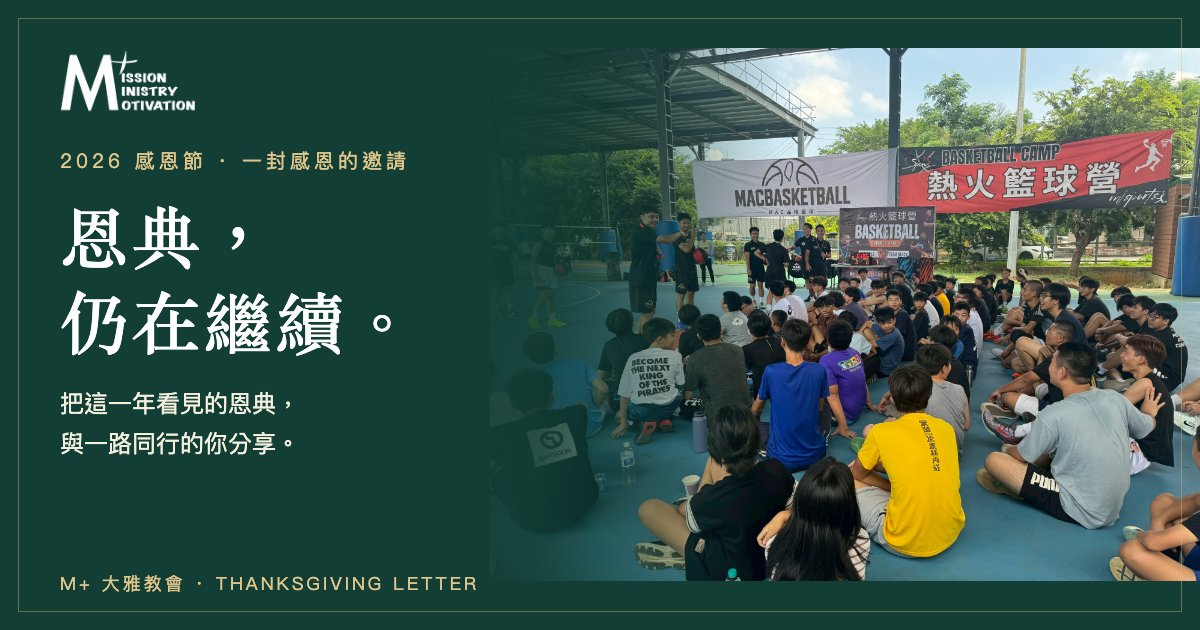
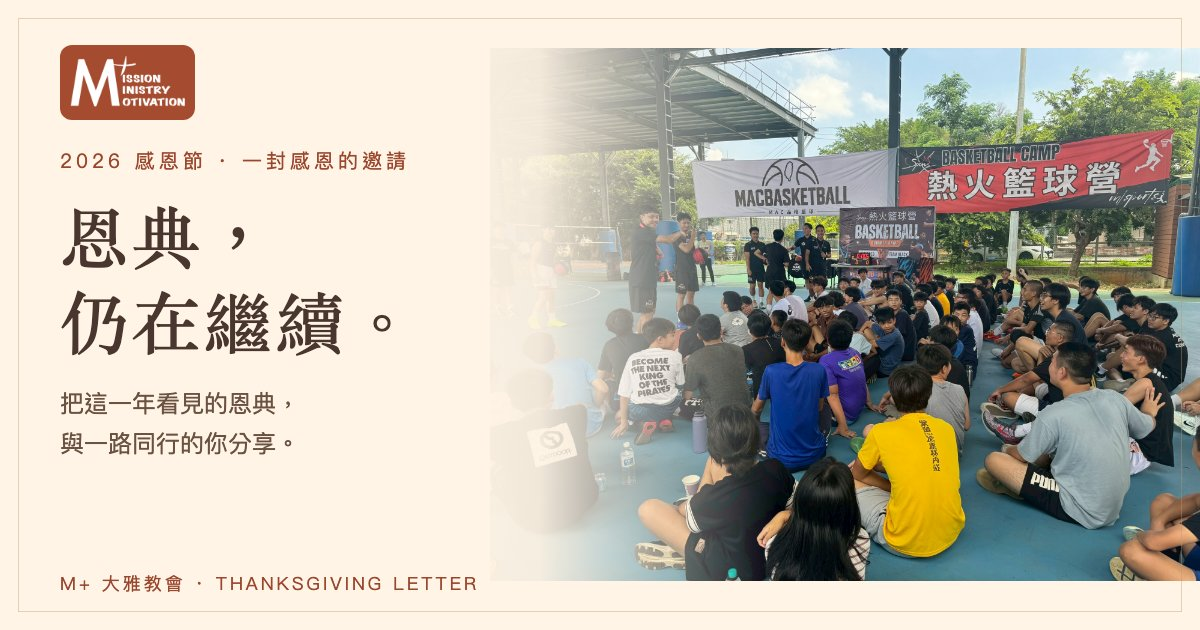
style: use warm Thanksgiving colors and reliable church photos

diff --git a/thanksgiving-2026.html b/thanksgiving-2026.html
@@ -3,27 +3,27 @@
 <head>
 <meta charset="utf-8">
 <meta name="viewport" content="width=device-width, initial-scale=1, viewport-fit=cover">
-<meta name="theme-color" content="#123e35">
+<meta name="theme-color" content="#9a472e">
 <meta name="description" content="M+大雅教會 2026 感恩代禱信，與一路同行的你分享門徒、社區與下一代的恩典故事。">
 <title>恩典，仍在繼續。｜M+大雅教會 2026 感恩代禱信</title>
 <style>
-:root{--forest:#123e35;--forest2:#225548;--ink:#233a33;--muted:#687b73;--line:#e2e5d9;--paper:#fbfaf5;--pale:#eff3ec;--warm:#dba95c;--white:#fff;--radius:20px; font-family:-apple-system,BlinkMacSystemFont,"PingFang TC","Noto Sans TC","Microsoft JhengHei",sans-serif;color:var(--ink);background:var(--paper);-webkit-font-smoothing:antialiased}
+:root{--forest:#9a472e;--forest2:#ae5638;--ink:#49362e;--muted:#78675d;--line:#ead8c6;--paper:#fffaf3;--pale:#faf0e3;--warm:#dba95c;--white:#fff;--radius:20px; font-family:-apple-system,BlinkMacSystemFont,"PingFang TC","Noto Sans TC","Microsoft JhengHei",sans-serif;color:var(--ink);background:var(--paper);-webkit-font-smoothing:antialiased}
 *{box-sizing:border-box}html{scroll-behavior:smooth}body{margin:0}a{color:inherit}button,input,select,textarea{font:inherit}button{cursor:pointer}button:disabled{opacity:.6;cursor:wait}.wrap{width:min(1120px,calc(100% - 40px));margin-inline:auto}.serif{font-family:"Noto Serif TC","Songti TC",serif}
-.topbar{background:var(--forest);color:#fff;min-height:66px;display:flex;align-items:center;position:relative;z-index:1}.topbar .wrap{display:flex;align-items:center;justify-content:space-between;gap:16px}.identity{display:flex;align-items:center;gap:12px;text-decoration:none;min-width:0}.identity img{display:block;width:142px;max-height:37px;object-fit:contain;object-position:left center}.identity .fallback{font-size:14px;font-weight:800;letter-spacing:.09em}.identity .sub{font-size:11px;letter-spacing:.15em;opacity:.8;border-left:1px solid #63877e;padding-left:13px;white-space:nowrap}.top-link{text-decoration:none;border:1px solid #ffffff75;border-radius:999px;padding:10px 18px;font-size:13px;font-weight:700;white-space:nowrap}
-.hero{background:linear-gradient(135deg,#103a32 0%,#205348 70%,#15372f 100%);color:#fff;padding:74px 0 108px;overflow:hidden;position:relative}.hero:after{content:"";position:absolute;width:570px;height:570px;border:1px solid #ffffff11;border-radius:50%;right:-160px;top:-300px;box-shadow:0 0 0 88px #ffffff04,0 0 0 180px #ffffff03;pointer-events:none}.hero-inner{max-width:870px;position:relative;z-index:1}.eyebrow{letter-spacing:.23em;text-transform:uppercase;font-size:12px;font-weight:750;color:#e9bf7c}.hero h1{font-size:clamp(41px,7vw,75px);letter-spacing:.07em;line-height:1.2;margin:23px 0 17px;font-weight:700}.hero h1 em{font-style:normal;color:#f7d7a1}.hero p{line-height:1.9;max-width:665px;font-size:17px;color:#e4ece6}.verse{border-left:3px solid var(--warm);padding-left:18px;color:#f6e6c8!important;margin:31px 0}.hero-actions{display:flex;gap:12px;flex-wrap:wrap;margin-top:30px}.btn{display:inline-flex;align-items:center;justify-content:center;gap:9px;padding:13px 20px;border-radius:999px;font-weight:750;font-size:14px;text-decoration:none;border:1px solid transparent;min-height:46px}.btn.gold{background:#eabd73;color:#173b32}.btn.ghost{color:#fff;border-color:#70988b}.btn.green{background:var(--forest);color:#fff}
-.photo-strip{position:relative;margin-top:-65px;z-index:2;display:grid;grid-template-columns:1.55fr 1fr;gap:12px}.photo-main,.photo-side{position:relative;overflow:hidden;border-radius:19px;background:#d9e5db}.photo-main{min-height:350px}.photo-side-grid{display:grid;grid-template-rows:1fr 1fr;gap:12px}.photo-side{min-height:169px}.photo-strip img{width:100%;height:100%;object-fit:cover;position:absolute;inset:0;display:block}.photo-strip .photo-caption{position:absolute;bottom:0;left:0;right:0;color:#fff;background:linear-gradient(transparent,#0e291edb);padding:36px 19px 16px;font-size:13px;font-weight:650}.photo-main .photo-caption{font-size:16px}
-.stats{display:grid;grid-template-columns:repeat(5,minmax(0,1fr));gap:10px;margin:28px 0 84px}.stat{background:#edf1e9;border:1px solid #e1e7dc;padding:19px 10px;text-align:center;border-radius:14px}.stat b{font-family:"Noto Serif TC","Songti TC",serif;display:block;color:var(--forest);font-size:clamp(23px,3vw,35px);font-weight:700}.stat small{display:block;font-size:12px;color:#61746b;margin-top:5px}
-.section-kicker{text-transform:uppercase;color:#ad7b38;letter-spacing:.19em;font-size:11px;font-weight:800}.section-head h2{font-size:clamp(29px,4.1vw,43px);margin:10px 0 11px;line-height:1.35}.section-head>p{max-width:690px;color:#62736a;line-height:1.9;font-size:15px;margin:0}.stories{display:grid;grid-template-columns:repeat(3,1fr);gap:18px;margin:31px 0 89px}.story{background:white;border:1px solid #e5e7df;border-radius:18px;padding:28px 25px;box-shadow:0 13px 35px #253b2710}.story .num{display:inline-block;color:#bd9559;font-size:13px;font-weight:800;letter-spacing:.15em}.story h3{font-size:21px;margin:13px 0}.story p{font-size:15px;line-height:1.95;color:#586c61;margin:0}
-.pray{background:#e9eee6;padding:64px 0}.pray .wrap{display:grid;grid-template-columns:1fr 1.2fr;gap:60px;align-items:start}.pray h2{font-size:40px;margin:14px 0}.pray .lede{font-size:16px;line-height:1.95;color:#4c6759}.prayers{padding:0;list-style:none;margin:0;display:grid;gap:16px}.prayers li{display:flex;gap:14px;align-items:flex-start;border-bottom:1px solid #d3ddcf;padding:0 0 16px;line-height:1.75;font-size:14px}.prayers li b{color:#b5874d;font-size:15px;flex:none}
-.giving{padding:88px 0 90px}.giving-heading{text-align:center;margin-bottom:33px}.giving-heading h2{font-size:40px;margin:12px 0}.giving-heading p{color:#617369;line-height:1.85}.giving-layout{display:grid;grid-template-columns:minmax(0,.9fr) minmax(0,1.1fr);gap:24px;align-items:start}.give-options{background:var(--forest);color:#fff;border-radius:24px;padding:31px;position:relative;overflow:hidden}.give-options .tag{font-size:12px;letter-spacing:.12em;color:#e4bd7b;font-weight:750}.give-options h3{font-size:23px;margin:14px 0 7px}.give-options .bank{color:#e5f0e7;font-size:14px}.acct{display:flex;align-items:center;gap:12px;flex-wrap:wrap;margin:20px 0}.acct strong{font-size:clamp(21px,3.2vw,27px);letter-spacing:.02em;font-variant-numeric:tabular-nums}.copy-btn{border:1px solid #8dab9f;background:#ffffff12;color:#fff;padding:9px 14px;border-radius:10px;font-size:12px;font-weight:750}.option-link{display:flex;align-items:center;justify-content:space-between;gap:12px;color:#173c32;background:#eabd73;text-decoration:none;margin-top:18px;padding:17px 20px;border-radius:13px;font-size:15px;font-weight:800}.option-site{display:flex;gap:8px;align-items:center;margin:18px 0 0;text-decoration:none;color:#d5e6db;font-size:13px}.note{font-size:12px;line-height:1.75;color:#c5d6cb;margin:26px 0 0}
-.form-panel{background:#fff;padding:31px;border:1px solid #e1e4da;box-shadow:0 20px 50px #173b3014;border-radius:24px}.form-head h3{margin:5px 0 9px;font-size:25px}.form-head p{color:#66786e;font-size:13px;line-height:1.8;margin-bottom:21px}.demo-alert{background:#fff6e6;border:1px solid #f4ddac;border-radius:12px;padding:12px 14px;margin-bottom:20px;font-size:12px;line-height:1.7;color:#785b2f}.field-grid{display:grid;grid-template-columns:repeat(2,minmax(0,1fr));gap:16px}.field{display:flex;flex-direction:column;gap:8px;margin-bottom:16px}.field.full{grid-column:1/-1}.field label{font-size:13px;font-weight:750}.req{color:#b6693c;margin-left:4px}.field input,.field select,.field textarea{width:100%;background:#fbfcf8;border:1px solid #cfdad0;border-radius:11px;padding:13px 14px;font-size:15px;outline:none;min-height:47px;transition:border-color .2s,box-shadow .2s}.field input:focus,.field select:focus,.field textarea:focus{border-color:#558474;box-shadow:0 0 0 3px #478b7726}.field textarea{resize:vertical;min-height:82px}.hint{font-size:11px;color:#64766c;line-height:1.6}.consent{min-height:44px;padding-block:10px;font-size:12px;color:#57695f;line-height:1.8;display:flex;align-items:flex-start;gap:9px}.consent input{flex:none;width:22px;height:22px;margin-top:0;accent-color:var(--forest)}.send-btn{width:100%;border:0;background:var(--forest);color:#fff;font-size:15px;font-weight:800;border-radius:12px;padding:15px 20px;margin-top:17px;min-height:52px}.status{margin-top:14px;border-radius:12px;padding:12px 14px;display:none;font-size:13px;line-height:1.7}.status.show{display:block}.status.warn{background:#fff7e6;color:#735424;border:1px solid #e7cf93}.status.ok{background:#eaf6e8;color:#235a37;border:1px solid #bad5c2}.status.error{background:#fbeceb;color:#9a3539;border:1px solid #e6bfc3}
-.end{background:#123e35;color:white;padding:58px 0}.end .wrap{display:flex;justify-content:space-between;gap:25px;align-items:end}.end h2{font-size:31px;margin:9px 0}.end p{color:#d6e7dd;line-height:1.8;margin:0}.foot{padding:22px 0;background:#0c3028;color:#cee1d7;font-size:12px}.foot .wrap{display:flex;align-items:center;justify-content:space-between;gap:12px;flex-wrap:wrap}.foot a{text-decoration:none}
+.topbar{background:var(--forest);color:#fff;min-height:66px;display:flex;align-items:center;position:relative;z-index:1}.topbar .wrap{display:flex;align-items:center;justify-content:space-between;gap:16px}.identity{display:flex;align-items:center;gap:12px;text-decoration:none;min-width:0}.identity img{display:block;width:142px;max-height:37px;object-fit:contain;object-position:left center}.identity .fallback{font-size:14px;font-weight:800;letter-spacing:.09em}.identity .sub{font-size:11px;letter-spacing:.15em;opacity:.8;border-left:1px solid #b7795f;padding-left:13px;white-space:nowrap}.top-link{text-decoration:none;border:1px solid #ffffff75;border-radius:999px;padding:10px 18px;font-size:13px;font-weight:700;white-space:nowrap}
+.hero{background:linear-gradient(135deg,#fff4e5 0%,#f9e4cc 70%,#f8eee1 100%);color:#49362e;padding:74px 0 108px;overflow:hidden;position:relative}.hero:after{content:"";position:absolute;width:570px;height:570px;border:1px solid #ffffff11;border-radius:50%;right:-160px;top:-300px;box-shadow:0 0 0 88px #ffffff04,0 0 0 180px #ffffff03;pointer-events:none}.hero-inner{max-width:870px;position:relative;z-index:1}.eyebrow{letter-spacing:.23em;text-transform:uppercase;font-size:12px;font-weight:750;color:#925030}.hero h1{font-size:clamp(41px,7vw,75px);letter-spacing:.07em;line-height:1.2;margin:23px 0 17px;font-weight:700}.hero h1 em{font-style:normal;color:#9a472e}.hero p{line-height:1.9;max-width:665px;font-size:17px;color:#59483c}.verse{border-left:3px solid var(--warm);padding-left:18px;color:#7a5138!important;margin:31px 0}.hero-actions{display:flex;gap:12px;flex-wrap:wrap;margin-top:30px}.btn{display:inline-flex;align-items:center;justify-content:center;gap:9px;padding:13px 20px;border-radius:999px;font-weight:750;font-size:14px;text-decoration:none;border:1px solid transparent;min-height:46px}.btn.gold{background:#eabd73;color:#573c2e}.btn.ghost{color:#fff;border-color:#c48d70}.btn.green{background:var(--forest);color:#fff}
+.photo-strip{position:relative;margin-top:-65px;z-index:2;display:grid;grid-template-columns:1.55fr 1fr;gap:12px}.photo-main,.photo-side{position:relative;overflow:hidden;border-radius:19px;background:#f2e4d6}.photo-main{min-height:350px}.photo-side-grid{display:grid;grid-template-rows:1fr 1fr;gap:12px}.photo-side{min-height:169px}.photo-strip img{width:100%;height:100%;object-fit:cover;position:absolute;inset:0;display:block}.photo-strip .photo-caption{position:absolute;bottom:0;left:0;right:0;color:#fff;background:linear-gradient(transparent,#38251cdb);padding:36px 19px 16px;font-size:13px;font-weight:650}.photo-main .photo-caption{font-size:16px}
+.stats{display:grid;grid-template-columns:repeat(5,minmax(0,1fr));gap:10px;margin:28px 0 84px}.stat{background:#fbf0e2;border:1px solid #ead8c6;padding:19px 10px;text-align:center;border-radius:14px}.stat b{font-family:"Noto Serif TC","Songti TC",serif;display:block;color:var(--forest);font-size:clamp(23px,3vw,35px);font-weight:700}.stat small{display:block;font-size:12px;color:#78675d;margin-top:5px}
+.section-kicker{text-transform:uppercase;color:#ad7b38;letter-spacing:.19em;font-size:11px;font-weight:800}.section-head h2{font-size:clamp(29px,4.1vw,43px);margin:10px 0 11px;line-height:1.35}.section-head>p{max-width:690px;color:#78675d;line-height:1.9;font-size:15px;margin:0}.stories{display:grid;grid-template-columns:repeat(3,1fr);gap:18px;margin:31px 0 89px}.story{background:white;border:1px solid #ead8c6;border-radius:18px;padding:28px 25px;box-shadow:0 13px 35px #60351b0c}.story .num{display:inline-block;color:#bd9559;font-size:13px;font-weight:800;letter-spacing:.15em}.story h3{font-size:21px;margin:13px 0}.story p{font-size:15px;line-height:1.95;color:#6f5a4b;margin:0}
+.pray{background:#f6e9da;padding:64px 0}.pray .wrap{display:grid;grid-template-columns:1fr 1.2fr;gap:60px;align-items:start}.pray h2{font-size:40px;margin:14px 0}.pray .lede{font-size:16px;line-height:1.95;color:#6b5140}.prayers{padding:0;list-style:none;margin:0;display:grid;gap:16px}.prayers li{display:flex;gap:14px;align-items:flex-start;border-bottom:1px solid #e1cbb4;padding:0 0 16px;line-height:1.75;font-size:14px}.prayers li b{color:#b5874d;font-size:15px;flex:none}
+.giving{padding:88px 0 90px}.giving-heading{text-align:center;margin-bottom:33px}.giving-heading h2{font-size:40px;margin:12px 0}.giving-heading p{color:#78675d;line-height:1.85}.giving-layout{display:grid;grid-template-columns:minmax(0,.9fr) minmax(0,1.1fr);gap:24px;align-items:start}.give-options{background:#f7e8d5;color:#49362e;border-radius:24px;padding:31px;position:relative;overflow:hidden}.give-options .tag{font-size:12px;letter-spacing:.12em;color:#8b4b2d;font-weight:750}.give-options h3{font-size:23px;margin:14px 0 7px}.give-options .bank{color:#694d3b;font-size:14px}.acct{display:flex;align-items:center;gap:12px;flex-wrap:wrap;margin:20px 0}.acct strong{font-size:clamp(21px,3.2vw,27px);letter-spacing:.02em;font-variant-numeric:tabular-nums}.copy-btn{border:1px solid #b58b6f;background:#fff9ef;color:#69432f;padding:9px 14px;border-radius:10px;font-size:12px;font-weight:750}.option-link{display:flex;align-items:center;justify-content:space-between;gap:12px;color:#573c2e;background:#eabd73;text-decoration:none;margin-top:18px;padding:17px 20px;border-radius:13px;font-size:15px;font-weight:800}.option-site{display:flex;gap:8px;align-items:center;margin:18px 0 0;text-decoration:none;color:#6b5140;font-size:13px}.note{font-size:12px;line-height:1.75;color:#765d4b;margin:26px 0 0}
+.form-panel{background:#fff;padding:31px;border:1px solid #ead8c6;box-shadow:0 20px 50px #8c4e2810;border-radius:24px}.form-head h3{margin:5px 0 9px;font-size:25px}.form-head p{color:#78675d;font-size:13px;line-height:1.8;margin-bottom:21px}.demo-alert{background:#fff6e6;border:1px solid #f4ddac;border-radius:12px;padding:12px 14px;margin-bottom:20px;font-size:12px;line-height:1.7;color:#785b2f}.field-grid{display:grid;grid-template-columns:repeat(2,minmax(0,1fr));gap:16px}.field{display:flex;flex-direction:column;gap:8px;margin-bottom:16px}.field.full{grid-column:1/-1}.field label{font-size:13px;font-weight:750}.req{color:#b6693c;margin-left:4px}.field input,.field select,.field textarea{width:100%;background:#fffcf8;border:1px solid #d9c4b0;border-radius:11px;padding:13px 14px;font-size:15px;outline:none;min-height:47px;transition:border-color .2s,box-shadow .2s}.field input:focus,.field select:focus,.field textarea:focus{border-color:#ae5638;box-shadow:0 0 0 3px #ae563826}.field textarea{resize:vertical;min-height:82px}.hint{font-size:11px;color:#78675d;line-height:1.6}.consent{min-height:44px;padding-block:10px;font-size:12px;color:#78675d;line-height:1.8;display:flex;align-items:flex-start;gap:9px}.consent input{flex:none;width:22px;height:22px;margin-top:0;accent-color:var(--forest)}.send-btn{width:100%;border:0;background:var(--forest);color:#fff;font-size:15px;font-weight:800;border-radius:12px;padding:15px 20px;margin-top:17px;min-height:52px}.status{margin-top:14px;border-radius:12px;padding:12px 14px;display:none;font-size:13px;line-height:1.7}.status.show{display:block}.status.warn{background:#fff7e6;color:#735424;border:1px solid #e7cf93}.status.ok{background:#fff1dc;color:#70451e;border:1px solid #dec39f}.status.error{background:#fbeceb;color:#9a3539;border:1px solid #e6bfc3}
+.end{background:#9a472e;color:white;padding:58px 0}.end .wrap{display:flex;justify-content:space-between;gap:25px;align-items:end}.end h2{font-size:31px;margin:9px 0}.end p{color:#f7e7d4;line-height:1.8;margin:0}.foot{padding:22px 0;background:#50372c;color:#f5e6d4;font-size:12px}.foot .wrap{display:flex;align-items:center;justify-content:space-between;gap:12px;flex-wrap:wrap}.foot a{text-decoration:none}
 @media(max-width:800px){.stats{grid-template-columns:repeat(3,minmax(0,1fr));margin-bottom:67px}.stories{grid-template-columns:1fr;gap:13px;margin-bottom:60px}.pray .wrap,.giving-layout{grid-template-columns:1fr}.pray .wrap{gap:23px}.photo-main{min-height:300px}.give-options,.form-panel{padding:24px}.hero{padding:61px 0 100px}.hero p{font-size:15px}.pray h2,.giving-heading h2{font-size:34px}}
 @media(max-width:560px){.wrap{width:min(100% - 28px,1120px)}.identity img{width:124px}.identity .sub{display:none}.top-link{padding:9px 12px;font-size:12px}.photo-strip{grid-template-columns:1fr;gap:10px}.photo-main{min-height:225px}.photo-side-grid{grid-template-columns:1fr 1fr;grid-template-rows:auto}.photo-side{min-height:135px}.photo-side .photo-caption{font-size:11px;padding:22px 10px 11px}.stats{grid-template-columns:repeat(2,minmax(0,1fr));gap:8px}.stat{padding:15px 9px}.stat b{font-size:28px}.stat small{font-size:11px}.section-head h2{font-size:30px}.story{padding:23px}.pray{padding:50px 0}.giving{padding:64px 0}.form-panel,.give-options{padding:21px;border-radius:20px}.field-grid{grid-template-columns:1fr;gap:0}.end .wrap{display:block}.end h2{font-size:26px}.hero h1{letter-spacing:.02em}.hero-actions .btn{flex:1}}
 @media(prefers-reduced-motion:reduce){html{scroll-behavior:auto}*{transition:none!important}}
 .photo-side.court{min-height:0;aspect-ratio:4/3}.photo-side.court img{position:relative;height:auto;object-fit:contain}
 </style>
-<meta property="og:type" content="website"><meta property="og:title" content="恩典，仍在繼續。｜2026 感恩代禱信"><meta property="og:description" content="感恩節將近，想先向你問聲好。與 M+大雅教會分享恩典，一同為下一代與社區守望。"><meta property="og:image" content="https://mscos.mchurch.online/assets/thanksgiving-2026/line-cover.jpg?v=20261113-response-live1"><meta property="og:image:width" content="1200"><meta property="og:image:height" content="630"><meta property="og:url" content="https://mscos.mchurch.online/thanksgiving-2026.html"></head>
+<meta property="og:type" content="website"><meta property="og:title" content="恩典，仍在繼續。｜2026 感恩代禱信"><meta property="og:description" content="感恩節將近，想先向你問聲好。與 M+大雅教會分享恩典，一同為下一代與社區守望。"><meta property="og:image" content="https://mscos.mchurch.online/assets/thanksgiving-2026/line-cover.jpg?v=20261113-warm2"><meta property="og:image:width" content="1200"><meta property="og:image:height" content="630"><meta property="og:url" content="https://mscos.mchurch.online/thanksgiving-2026.html"></head>
 <body>
 <header class="topbar"><div class="wrap"><a class="identity" href="https://mchurch.online" aria-label="M+Church 教會首頁"><img src="assets/brands/mplus-logo-white.png" alt="M+Church 正式標誌" onerror="this.style.display='none';this.nextElementSibling.style.display='inline'"/><span class="fallback" style="display:none">M+CHURCH</span><span class="sub">感恩節 · 2026</span></a><span class="top-link">2026 感恩代禱信</span></div></header>
 <main>
@@ -31,7 +31,7 @@
 <p>感恩節將近，想先向你問聲好。這段日子，你和家人一切都好嗎？願主的平安與恩典，在每一天的忙碌與挑戰中陪伴你，也願你心裡常有從祂而來的力量與盼望。</p>
 <p>每到這個時節，回想這一年走過的路，心裡總有許多感謝。謝謝上帝一路的帶領，也謝謝每一位以禱告、陪伴、服事與奉獻支持教會的家人和朋友。因著這些同行與守望，許多孩子被接住、長輩被關心，年輕的生命也漸漸找到盼望。</p>
 <p>今天想藉著這封信，把 M+大雅教會這一年所經歷的恩典，與你分享。也邀請你在讀信時，為信中提到的人與事獻上一個禱告，與我們一同仰望上帝，帶著感恩的心迎向新的一年。</p><p>今年，我們一同見證教會成長、生命更新、下一代被建造。感謝上帝，使用 M+Church 走進社區、連結眾教會，將福音的光帶進更多家庭。</p><p class="verse">「耶和華果然為我們行了大事，我們就歡喜。」<br><small>— 詩篇 126:3</small></p></div></div></section>
-<div class="wrap"><section class="photo-strip" aria-label="2026 年度事工真實照片"><div class="photo-main"><img src="https://raw.githubusercontent.com/mschurch-app/church-management-staging/4d49e32c1d28f63bcb6f7ea6634a84c733214a9b/assets/thanksgiving-2026/ministry-1.jpg" alt="M+Church 弟兄姊妹在教會禮拜堂合照" decoding="async"><div class="photo-caption">教會家人・一起敬拜、一起成長</div></div><div class="photo-side-grid"><div class="photo-side"><img src="https://raw.githubusercontent.com/mschurch-app/church-management-staging/4d49e32c1d28f63bcb6f7ea6634a84c733214a9b/assets/thanksgiving-2026/ministry-2.jpg" alt="夢想加油站陪伴孩子們的戶外活動合照" decoding="async"><div class="photo-caption">陪伴社區的孩子</div></div><div class="photo-side court"><img src="https://aqanuwilmvdtlzuqlrau.supabase.co/storage/v1/object/public/church-website-public-media/thanksgiving-2026/court-day2-365-d7f65bd17c56.jpg" alt="2026 熱火籃球營在籃球場上的學員與教練團體照" decoding="async"><div class="photo-caption">2026 熱火籃球營</div></div></div></section>
+<div class="wrap"><section class="photo-strip" aria-label="2026 年度事工真實照片"><div class="photo-main"><img src="assets/thanksgiving-2026/ministry-1.jpg" alt="M+Church 弟兄姊妹在教會禮拜堂合照" decoding="async"><div class="photo-caption">教會家人・一起敬拜、一起成長</div></div><div class="photo-side-grid"><div class="photo-side"><img src="assets/thanksgiving-2026/ministry-2.jpg" alt="夢想加油站陪伴孩子們的戶外活動合照" decoding="async"><div class="photo-caption">陪伴社區的孩子</div></div><div class="photo-side court"><img src="https://aqanuwilmvdtlzuqlrau.supabase.co/storage/v1/object/public/church-website-public-media/thanksgiving-2026/court-day2-365-d7f65bd17c56.jpg" alt="2026 熱火籃球營在籃球場上的學員與教練團體照" decoding="async"><div class="photo-caption">2026 熱火籃球營</div></div></div></section>
 <section class="stats" aria-label="年度事工成果"><div class="stat"><b>近 60 位</b><small>成人主日聚會</small></div><div class="stat"><b>15 位</b><small>一年門徒培育</small></div><div class="stat"><b>2 位</b><small>全職同工神學裝備</small></div><div class="stat"><b>22 間</b><small>教會攜手合作</small></div><div class="stat"><b>10 位</b><small>年輕人受洗</small></div></section></div>
 <section id="stories" class="wrap"><div class="section-head"><span class="section-kicker">OUR GRATITUDE · 2026</span><h2 class="serif">看見上帝，成就美好的事</h2><p>從一個個願意跟隨耶穌的生命開始，我們在這一年經歷了豐盛的恩典。弟兄姊妹更加合一、主動服事，教會充滿喜樂和活力。</p></div><div class="stories"><article class="story"><span class="num">01 / 扎根</span><h3>一起成長，學習跟隨主</h3><p>回想這一年，讓我們感恩的，是有更多弟兄姊妹一起聚會，也一起學習跟隨主。過去成人主日聚會約有 20–30 人，如今已接近 60 人。這些數字背後，是一個個我們珍惜的生命。</p><p>我們也為願意繼續扎根的弟兄姊妹感謝神：15 位弟兄姊妹即將完成一年的門徒培育課程；兩位全職同工也開始在神學院學習，預備成為傳道人。看見大家在信仰中成長，也願意回應呼召、投入服事，是這一年格外珍貴的恩典。</p></article><article class="story"><span class="num">02 / 走近</span><h3>跨世代的社區關懷</h3><p>夢想加油站課輔班持續陪伴弱勢家庭孩子，提供晚餐、學習與生命支持；不老俱樂部關心社區長輩。青少年團契也轉型為陪伴與建造門徒的團契。</p></article><article class="story"><span class="num">03 / 連結</span><h3>國度同行・福音結果</h3><p>2026 熱火籃球營連結 22 間教會、約 100 位青少年，約半數尚未信主、約三成決志回應福音。至十一月後續關懷統計，已有 10 位年輕人受洗！</p></article></div></section>
 <section id="prayers" class="pray"><div class="wrap"><div><span class="section-kicker">PRAY WITH US</span><h2 class="serif">攜手守望，<br>帶著信心向前。</h2><p class="lede">隨著教會成長、同工裝備與社區事工擴展，年底仍有經費與資源需要。邀請您繼續為我們代禱，一起為下一代、為社區、為神的國度持續撒種。</p></div><ul class="prayers"><li><b>01</b><span><strong>屬靈生命與門徒培育</strong>：求主堅固弟兄姊妹，建立更成熟、有使命感的教會。</span></li><li><b>02</b><span><strong>兩位全職同工</strong>：求主保守神學裝備與傳道呼召，供應所需。</span></li><li><b>03</b><span><strong>社區與青少年事工</strong>：求主使用課輔班、不老俱樂部、青少年團契及籃球營，祝福更多家庭。</span></li><li><b>04</b><span><strong>年底財務與未來資源</strong>：求神預備足夠供應，使各項福音關懷事工持續發展。</span></li></ul></div></section>
@@ -40,5 +40,5 @@
 <div class="form-panel"><div class="form-head"><span class="section-kicker">OFFERING RESPONSE</span><h3>匯款・奉獻回應</h3><p>謝謝您的奉獻與支持。請留下必要資料，方便教會財務核對，並由教會 OS 安全地通知負責同工。</p></div><div class="demo-alert" id="demoNotice" role="note">這是關閉收件的預覽版，請勿填寫真實個人資料。正式驗收完成後才會開放奉獻回應。</div>
 <form id="responseForm" novalidate><div style="position:absolute;left:-10000px" aria-hidden="true"><label for="offeringWebsite">網站（請留空）</label><input id="offeringWebsite" tabindex="-1" autocomplete="off" maxlength="200"></div><div class="field-grid"><div class="field"><label for="donorName">奉獻人姓名<span class="req">*</span></label><input id="donorName" name="donorName" autocomplete="name" maxlength="60" required placeholder="請填寫您的姓名"></div><div class="field"><label for="method">奉獻方式<span class="req">*</span></label><select id="method" name="method" required><option value="bank_transfer">銀行匯款</option><option value="online">線上奉獻</option></select></div><div class="field"><label for="transferDate">奉獻日期<span class="req">*</span></label><input type="date" id="transferDate" name="transferDate" required></div><div class="field"><label for="amount">奉獻金額（新臺幣）<span class="req">*</span></label><input type="number" id="amount" name="amount" min="1" step="1" max="100000000" required inputmode="numeric" placeholder="例如：1000"></div><div class="field full"><label for="lastFive">匯款帳號末五碼<span class="req" id="lastFiveRequired">*</span></label><input id="lastFive" name="lastFive" type="text" pattern="[0-9]{5}" maxlength="5" inputmode="numeric" autocomplete="off" required placeholder="輸入您匯出款項帳戶的後五碼"><div class="hint" id="lastFiveHint">請填寫您「自己的匯款帳戶」末五碼，方便核對入帳。</div></div><div class="field"><label for="contactEmail">Email（擇一聯絡方式）</label><input type="email" id="contactEmail" name="contactEmail" maxlength="120" autocomplete="email" placeholder="yourname@example.com"></div><div class="field"><label for="contactPhone">手機（擇一聯絡方式）</label><input type="tel" id="contactPhone" name="contactPhone" maxlength="20" autocomplete="tel" inputmode="tel" placeholder="09xxxxxxxx"></div><div class="field full"><label for="note">備註（選填）</label><textarea id="note" name="note" maxlength="300" rows="3" placeholder="其他需要告知財務同工的事項"></textarea></div></div><label class="consent"><input type="checkbox" id="consent" required><span>我同意教會依奉獻對帳與聯絡之必要目的使用此表單資料，僅限經授權同工查閱；不公開個人奉獻資料。</span></label><button class="send-btn" type="submit" id="sendBtn">送出奉獻回應 →</button><div id="formStatus" class="status" role="status" aria-live="polite"></div></form></div></div></div></section>
 </main><footer class="foot"><div class="wrap"><span>© 2026 M+Church. 感謝每一位守望與同行的夥伴。</span><a href="https://mchurch.online" rel="noopener noreferrer">mchurch.online</a></div><p style="text-align:center"><a href="thanksgiving-2026-line.html">開啟 LINE 分享版代禱信 →</a></p></footer>
-<script>window.MPLUS_OFFERING_RESPONSE_ENDPOINT=window.MPLUS_OFFERING_RESPONSE_ENDPOINT||'https://aqanuwilmvdtlzuqlrau.supabase.co/functions/v1/thanksgiving-offering-response';</script><script type="module" src="offering-form.mjs?v=20261113-response-live1"></script>
+<script>window.MPLUS_OFFERING_RESPONSE_ENDPOINT=window.MPLUS_OFFERING_RESPONSE_ENDPOINT||'https://aqanuwilmvdtlzuqlrau.supabase.co/functions/v1/thanksgiving-offering-response';</script><script type="module" src="offering-form.mjs?v=20261113-warm2"></script>
 </body></html>

diff --git a/thanksgiving-2026-line.html b/thanksgiving-2026-line.html
@@ -1,4 +1,4 @@
-<!doctype html><html lang="zh-Hant"><head><meta charset="utf-8"><meta name="viewport" content="width=device-width,initial-scale=1,viewport-fit=cover"><title>恩典，仍在繼續。｜M+大雅教會 2026 感恩代禱信</title><meta name="description" content="一封來自 M+大雅教會的感恩邀請，與我們一同為生命成長、下一代與社區關懷守望。"><meta property="og:title" content="恩典，仍在繼續。｜2026 感恩代禱信"><meta property="og:description" content="與 M+大雅教會同心守望，讓愛延續，讓盼望發光。"><meta property="og:image" content="https://mscos.mchurch.online/assets/thanksgiving-2026/line-cover.jpg?v=20261113-response-live1"><meta property="og:url" content="https://mscos.mchurch.online/thanksgiving-2026-line.html"><link rel="stylesheet" href="thanksgiving-2026-line.css?v=20261113-response-live1"></head><body><main><article class="letter"><header><div class="brand"><img src="assets/brands/mplus-logo-white.png" alt="M+Church"><div>M+ 大雅教會<span>THANKSGIVING · 2026</span></div></div><p class="kicker">一封感恩的邀請</p><h1>恩典，<br>仍在繼續。</h1><p class="intro">把這一年看見的恩典，<br>與一路同行的你分享。</p><div class="verse">耶和華果然為我們行了大事，<br>我們就歡喜。<span>詩篇 126:3</span></div></header><figure class="hero"><img src="https://raw.githubusercontent.com/mschurch-app/church-management-staging/4d49e32c1d28f63bcb6f7ea6634a84c733214a9b/assets/thanksgiving-2026/ministry-1.jpg" alt="M+大雅教會事工真實照片"></figure><section class="content"><p>親愛的弟兄姊妹、朋友們，平安！</p>
+<!doctype html><html lang="zh-Hant"><head><meta charset="utf-8"><meta name="viewport" content="width=device-width,initial-scale=1,viewport-fit=cover"><title>恩典，仍在繼續。｜M+大雅教會 2026 感恩代禱信</title><meta name="description" content="一封來自 M+大雅教會的感恩邀請，與我們一同為生命成長、下一代與社區關懷守望。"><meta property="og:title" content="恩典，仍在繼續。｜2026 感恩代禱信"><meta property="og:description" content="與 M+大雅教會同心守望，讓愛延續，讓盼望發光。"><meta property="og:image" content="https://mscos.mchurch.online/assets/thanksgiving-2026/line-cover.jpg?v=20261113-warm2"><meta property="og:url" content="https://mscos.mchurch.online/thanksgiving-2026-line.html"><link rel="stylesheet" href="thanksgiving-2026-line.css?v=20261113-warm2"></head><body><main><article class="letter"><header><div class="brand"><img src="assets/brands/mplus-logo-white.png" alt="M+Church"><div>M+ 大雅教會<span>THANKSGIVING · 2026</span></div></div><p class="kicker">一封感恩的邀請</p><h1>恩典，<br>仍在繼續。</h1><p class="intro">把這一年看見的恩典，<br>與一路同行的你分享。</p><div class="verse">耶和華果然為我們行了大事，<br>我們就歡喜。<span>詩篇 126:3</span></div></header><figure class="hero"><img src="assets/thanksgiving-2026/ministry-1.jpg" alt="M+大雅教會事工真實照片"></figure><section class="content"><p>親愛的弟兄姊妹、朋友們，平安！</p>
 <p>感恩節將近，想先向你問聲好。這段日子，你和家人一切都好嗎？願主的平安與恩典，在每一天的忙碌與挑戰中陪伴你，也願你心裡常有從祂而來的力量與盼望。</p>
 <p>每到這個時節，回想這一年走過的路，心裡總有許多感謝。謝謝上帝一路的帶領，也謝謝每一位以禱告、陪伴、服事與奉獻支持教會的家人和朋友。因著這些同行與守望，許多孩子被接住、長輩被關心，年輕的生命也漸漸找到盼望。</p>
-<p>今天想藉著這封信，把 M+大雅教會這一年所經歷的恩典，與你分享。也邀請你在讀信時，為信中提到的人與事獻上一個禱告，與我們一同仰望上帝，帶著感恩的心迎向新的一年。</p><p>今年，我們一同見證教會成長、生命更新、下一代被建造。感謝上帝，使用 M+Church 走進社區、連結眾教會，將福音的光帶進更多家庭。</p><p>從一個個願意跟隨耶穌的生命開始，我們在這一年經歷了豐盛的恩典。弟兄姊妹更加合一、主動服事，教會充滿喜樂和活力。</p><h2>一起成長，學習跟隨主</h2><p>回想這一年，讓我們感恩的，是有更多弟兄姊妹一起聚會，也一起學習跟隨主。過去成人主日聚會約有 20–30 人，如今已接近 60 人。這些數字背後，是一個個我們珍惜的生命。</p><p>我們也為願意繼續扎根的弟兄姊妹感謝神：15 位弟兄姊妹即將完成一年的門徒培育課程；兩位全職同工也開始在神學院學習，預備成為傳道人。看見大家在信仰中成長，也願意回應呼召、投入服事，是這一年格外珍貴的恩典。</p><h2>跨世代的社區關懷</h2><p>夢想加油站課輔班持續陪伴弱勢家庭孩子，提供晚餐、學習與生命支持；不老俱樂部關心社區長輩。青少年團契也轉型為陪伴與建造門徒的團契。</p><h2>國度同行・福音結果</h2><p>2026 熱火籃球營連結 22 間教會、約 100 位青少年，約半數尚未信主、約三成決志回應福音。至十一月後續關懷統計，已有 10 位年輕人受洗！</p><div class="photos with-court"><img src="https://raw.githubusercontent.com/mschurch-app/church-management-staging/4d49e32c1d28f63bcb6f7ea6634a84c733214a9b/assets/thanksgiving-2026/ministry-2.jpg" alt="M+大雅教會事工真實照片"><img src="https://aqanuwilmvdtlzuqlrau.supabase.co/storage/v1/object/public/church-website-public-media/thanksgiving-2026/court-day2-365-d7f65bd17c56.jpg" class="court" alt="2026 熱火籃球營籃球場團體照"></div><div class="prayer"><p class="kicker">PRAY WITH US</p><h2>邀請你，與我們同心守望。</h2><p>隨著教會成長、同工裝備與社區事工擴展，年底仍有經費與資源需要。邀請您繼續為我們代禱，一起為下一代、為社區、為神的國度持續撒種。</p><ol><li><span><strong>屬靈生命與門徒培育</strong>：求主堅固弟兄姊妹，建立更成熟、有使命感的教會。</span></li><li><span><strong>兩位全職同工</strong>：求主保守神學裝備與傳道呼召，供應所需。</span></li><li><span><strong>社區與青少年事工</strong>：求主使用課輔班、不老俱樂部、青少年團契及籃球營，祝福更多家庭。</span></li><li><span><strong>年底財務與未來資源</strong>：求神預備足夠供應，使各項福音關懷事工持續發展。</span></li></ol></div><h2>謝謝你，一路同行。</h2><p>謝謝每一位用禱告、陪伴與行動支持教會的朋友。歡迎把這封感恩代禱信，分享給願意一同守望的人。</p><p class="future">2027，從 M+ 開始，<br><b>成為點亮世界的光。</b></p><p class="signature">感恩節快樂！<br>M+Church／M+大雅教會<br>主任牧師 吳俊璋 暨全體同工 敬上</p><div class="support" style="border-top:1px solid #e8ddc8;margin-top:30px;padding-top:6px"><h2>若你願意，與我們同行。</h2><p>讀完這封信後，若你願意支持教會的牧養與社區關懷，歡迎參考下方資訊。</p><div class="bank"><span>銀行匯款</span><b>玉山銀行・大雅分行</b><strong>0358940009109</strong><p>匯款後請填寫奉獻回應，留下您自己匯款帳號的末五碼，方便財務核對。</p></div><a class="primary" href="https://tcsc.eoffering.org.tw/contents/project_ct?page=2&amp;p_id=3" target="_blank" rel="noopener noreferrer">前往線上奉獻 ↗</a><div style="text-align:center;margin:22px 0;font-size:13px"><img src="assets/thanksgiving-2026/online-offering-qr.svg" width="144" height="144" alt="線上奉獻 QR Code"><br>掃描 QR Code，前往線上奉獻</div><a class="primary" href="thanksgiving-2026.html#giving">我已匯款，填寫奉獻回應 →</a></div></section><footer><a class="line-share" href="https://line.me/R/share?text=%E6%81%A9%E5%85%B8%EF%BC%8C%E4%BB%8D%E5%9C%A8%E7%B9%BC%E7%BA%8C%E3%80%82%EF%BD%9CM%2B%E5%A4%A7%E9%9B%85%E6%95%99%E6%9C%83%202026%20%E6%84%9F%E6%81%A9%E4%BB%A3%E7%A6%B1%E4%BF%A1%0A%0A%E8%A6%AA%E6%84%9B%E7%9A%84%E6%9C%8B%E5%8F%8B%EF%BC%8C%E5%B9%B3%E5%AE%89%EF%BC%81%0A%E6%83%B3%E8%88%87%E4%BD%A0%E5%88%86%E4%BA%AB%E9%80%99%E4%B8%80%E5%B9%B4%EF%BC%8C%E4%B8%8A%E5%B8%9D%E5%A6%82%E4%BD%95%E5%B8%B6%E9%A0%98%E6%95%99%E6%9C%83%E3%80%81%E9%99%AA%E4%BC%B4%E4%B8%8B%E4%B8%80%E4%BB%A3%E3%80%81%E7%A5%9D%E7%A6%8F%E7%A4%BE%E5%8D%80%E3%80%82%E9%82%80%E8%AB%8B%E4%BD%A0%E8%AE%80%E4%B8%80%E8%AE%80%E9%80%99%E5%B0%81%E4%BF%A1%EF%BC%8C%E4%B9%9F%E8%88%87%E6%88%91%E5%80%91%E5%90%8C%E5%BF%83%E5%AE%88%E6%9C%9B%E3%80%82%0A%0A%E9%96%B1%E8%AE%80%E5%AE%8C%E6%95%B4%E4%BB%A3%E7%A6%B1%E4%BF%A1%EF%BC%9A%0Ahttps%3A%2F%2Fmscos.mchurch.online%2Fthanksgiving-2026.html" rel="noopener">用 LINE 分享這封代禱信</a><button class="download" type="button" id="copyLetter">複製信件網址</button><p id="shareStatus" role="status" aria-live="polite"></p><p>分享由你選擇對象後送出，不會自動發送。</p></footer></article></main><script type="module" src="thanksgiving-share.mjs?v=20261113-response-live1"></script></body></html>
+<p>今天想藉著這封信，把 M+大雅教會這一年所經歷的恩典，與你分享。也邀請你在讀信時，為信中提到的人與事獻上一個禱告，與我們一同仰望上帝，帶著感恩的心迎向新的一年。</p><p>今年，我們一同見證教會成長、生命更新、下一代被建造。感謝上帝，使用 M+Church 走進社區、連結眾教會，將福音的光帶進更多家庭。</p><p>從一個個願意跟隨耶穌的生命開始，我們在這一年經歷了豐盛的恩典。弟兄姊妹更加合一、主動服事，教會充滿喜樂和活力。</p><h2>一起成長，學習跟隨主</h2><p>回想這一年，讓我們感恩的，是有更多弟兄姊妹一起聚會，也一起學習跟隨主。過去成人主日聚會約有 20–30 人，如今已接近 60 人。這些數字背後，是一個個我們珍惜的生命。</p><p>我們也為願意繼續扎根的弟兄姊妹感謝神：15 位弟兄姊妹即將完成一年的門徒培育課程；兩位全職同工也開始在神學院學習，預備成為傳道人。看見大家在信仰中成長，也願意回應呼召、投入服事，是這一年格外珍貴的恩典。</p><h2>跨世代的社區關懷</h2><p>夢想加油站課輔班持續陪伴弱勢家庭孩子，提供晚餐、學習與生命支持；不老俱樂部關心社區長輩。青少年團契也轉型為陪伴與建造門徒的團契。</p><h2>國度同行・福音結果</h2><p>2026 熱火籃球營連結 22 間教會、約 100 位青少年，約半數尚未信主、約三成決志回應福音。至十一月後續關懷統計，已有 10 位年輕人受洗！</p><div class="photos with-court"><img src="assets/thanksgiving-2026/ministry-2.jpg" alt="M+大雅教會事工真實照片"><img src="https://aqanuwilmvdtlzuqlrau.supabase.co/storage/v1/object/public/church-website-public-media/thanksgiving-2026/court-day2-365-d7f65bd17c56.jpg" class="court" alt="2026 熱火籃球營籃球場團體照"></div><div class="prayer"><p class="kicker">PRAY WITH US</p><h2>邀請你，與我們同心守望。</h2><p>隨著教會成長、同工裝備與社區事工擴展，年底仍有經費與資源需要。邀請您繼續為我們代禱，一起為下一代、為社區、為神的國度持續撒種。</p><ol><li><span><strong>屬靈生命與門徒培育</strong>：求主堅固弟兄姊妹，建立更成熟、有使命感的教會。</span></li><li><span><strong>兩位全職同工</strong>：求主保守神學裝備與傳道呼召，供應所需。</span></li><li><span><strong>社區與青少年事工</strong>：求主使用課輔班、不老俱樂部、青少年團契及籃球營，祝福更多家庭。</span></li><li><span><strong>年底財務與未來資源</strong>：求神預備足夠供應，使各項福音關懷事工持續發展。</span></li></ol></div><h2>謝謝你，一路同行。</h2><p>謝謝每一位用禱告、陪伴與行動支持教會的朋友。歡迎把這封感恩代禱信，分享給願意一同守望的人。</p><p class="future">2027，從 M+ 開始，<br><b>成為點亮世界的光。</b></p><p class="signature">感恩節快樂！<br>M+Church／M+大雅教會<br>主任牧師 吳俊璋 暨全體同工 敬上</p><div class="support" style="border-top:1px solid #e8ddc8;margin-top:30px;padding-top:6px"><h2>若你願意，與我們同行。</h2><p>讀完這封信後，若你願意支持教會的牧養與社區關懷，歡迎參考下方資訊。</p><div class="bank"><span>銀行匯款</span><b>玉山銀行・大雅分行</b><strong>0358940009109</strong><p>匯款後請填寫奉獻回應，留下您自己匯款帳號的末五碼，方便財務核對。</p></div><a class="primary" href="https://tcsc.eoffering.org.tw/contents/project_ct?page=2&amp;p_id=3" target="_blank" rel="noopener noreferrer">前往線上奉獻 ↗</a><div style="text-align:center;margin:22px 0;font-size:13px"><img src="assets/thanksgiving-2026/online-offering-qr.svg" width="144" height="144" alt="線上奉獻 QR Code"><br>掃描 QR Code，前往線上奉獻</div><a class="primary" href="thanksgiving-2026.html#giving">我已匯款，填寫奉獻回應 →</a></div></section><footer><a class="line-share" href="https://line.me/R/share?text=%E6%81%A9%E5%85%B8%EF%BC%8C%E4%BB%8D%E5%9C%A8%E7%B9%BC%E7%BA%8C%E3%80%82%EF%BD%9CM%2B%E5%A4%A7%E9%9B%85%E6%95%99%E6%9C%83%202026%20%E6%84%9F%E6%81%A9%E4%BB%A3%E7%A6%B1%E4%BF%A1%0A%0A%E8%A6%AA%E6%84%9B%E7%9A%84%E6%9C%8B%E5%8F%8B%EF%BC%8C%E5%B9%B3%E5%AE%89%EF%BC%81%0A%E6%83%B3%E8%88%87%E4%BD%A0%E5%88%86%E4%BA%AB%E9%80%99%E4%B8%80%E5%B9%B4%EF%BC%8C%E4%B8%8A%E5%B8%9D%E5%A6%82%E4%BD%95%E5%B8%B6%E9%A0%98%E6%95%99%E6%9C%83%E3%80%81%E9%99%AA%E4%BC%B4%E4%B8%8B%E4%B8%80%E4%BB%A3%E3%80%81%E7%A5%9D%E7%A6%8F%E7%A4%BE%E5%8D%80%E3%80%82%E9%82%80%E8%AB%8B%E4%BD%A0%E8%AE%80%E4%B8%80%E8%AE%80%E9%80%99%E5%B0%81%E4%BF%A1%EF%BC%8C%E4%B9%9F%E8%88%87%E6%88%91%E5%80%91%E5%90%8C%E5%BF%83%E5%AE%88%E6%9C%9B%E3%80%82%0A%0A%E9%96%B1%E8%AE%80%E5%AE%8C%E6%95%B4%E4%BB%A3%E7%A6%B1%E4%BF%A1%EF%BC%9A%0Ahttps%3A%2F%2Fmscos.mchurch.online%2Fthanksgiving-2026.html" rel="noopener">用 LINE 分享這封代禱信</a><button class="download" type="button" id="copyLetter">複製信件網址</button><p id="shareStatus" role="status" aria-live="polite"></p><p>分享由你選擇對象後送出，不會自動發送。</p></footer></article></main><script type="module" src="thanksgiving-share.mjs?v=20261113-warm2"></script></body></html>

diff --git a/thanksgiving-2026-line.css b/thanksgiving-2026-line.css
@@ -1,4 +1,6 @@
-*{box-sizing:border-box}html{background:#eee9df;color:#183d34}body{margin:0;font-family:-apple-system,BlinkMacSystemFont,"PingFang TC","Noto Sans TC",sans-serif;line-height:1.85}main{max-width:760px;margin:28px auto;padding:0 16px}.letter{overflow:hidden;background:#fffdf7;border:1px solid #e1d9c9;border-radius:24px;box-shadow:0 14px 60px #173e3412}header{position:relative;background:#123e35;color:#fff9e9;padding:38px 44px 42px}.brand{display:flex;align-items:center;gap:16px;font-size:19px;font-weight:650;letter-spacing:.06em}.brand img{width:76px;height:65px;object-fit:contain}.brand span{display:block;font-size:10px;font-weight:400;letter-spacing:.18em;color:#d2c7a9}.kicker{font-size:12px;letter-spacing:.18em;color:#ab8c54;font-weight:700;margin:38px 0 12px}header .kicker{color:#e0bf85}h1{font-family:"Songti TC","Noto Serif TC",serif;font-size:76px;font-weight:600;letter-spacing:.03em;line-height:1.26;margin:0}.intro{font-size:19px;color:#e1e9df;margin:22px 0}.verse{font-size:15px;border-top:1px solid #ffffff36;padding-top:20px;line-height:1.85;color:#ead9b3}.verse span{display:block;font-size:12px;letter-spacing:.08em;margin-top:6px}.hero{margin:0;height:310px;overflow:hidden}.hero img{display:block;width:100%;height:100%;object-fit:cover;object-position:center}.content{padding:26px 44px 24px;font-size:16px}h2{font-family:"Songti TC",serif;line-height:1.5;font-size:27px;margin:32px 0 14px}p{margin:16px 0}.numbers{display:grid;grid-template-columns:repeat(3,1fr);gap:10px;background:#f2eddf;border-radius:16px;padding:20px 10px;margin:26px 0;text-align:center}.numbers strong{display:block;font-size:23px;color:#87512e}.numbers span{display:block;font-size:11px}.photos{display:grid;grid-template-columns:1fr 1fr;gap:12px;margin:25px 0}.photos img{width:100%;height:195px;object-fit:cover;border-radius:14px}.prayer{border-block:1px solid #e8ddc8;padding-bottom:12px}.prayer .kicker{margin-top:24px}.prayer h2{margin-top:0}ol{padding-left:25px}li{padding-left:5px;margin:16px 0}li b,li span{display:block}li span{font-size:15px;color:#546b5f}.bank{background:#f2eddf;padding:22px 26px;border-radius:16px}.bank>span{display:block;color:#786c57;font-size:12px}.bank b{display:block;font-size:17px}.bank strong{display:block;font-size:31px;letter-spacing:.045em;line-height:1.6;font-variant-numeric:tabular-nums}.bank p{font-size:13px;line-height:1.7;margin:8px 0 0;color:#58695e}.primary,.line-share,.download{display:block;text-align:center;text-decoration:none;border-radius:12px;padding:16px 12px;min-height:52px;font-weight:650}.primary{background:#ad4e2c;color:#fff;margin-top:18px}.future{border-left:3px solid #b48b4c;padding-left:20px;margin:35px 0 28px;font-size:23px;line-height:1.65}.signature{font-size:14px;color:#53695d}footer{padding:24px 44px 30px;border-top:1px solid #e8ddc8}.line-share{background:#087b3c;color:#fff}.download{color:#294b3f;border:1px solid #bac5bb;margin-top:12px}footer p{color:#68756b;font-size:12px;text-align:center;margin-bottom:0}@media(max-width:540px){main{padding:0;margin:0}.letter{border-radius:0;border:0}header{padding:28px 26px 32px}h1{font-size:62px}.content{padding:22px 25px}.hero{height:230px}.photos img{height:150px}footer{padding:22px 25px}.numbers{padding:17px 6px;gap:5px}.numbers strong{font-size:21px}.numbers span{font-size:10px}.bank{padding:20px}.bank strong{font-size:27px}h2{font-size:25px}}@media print{main{max-width:760px;margin:0 auto;padding:0}.letter{box-shadow:none}footer{display:none}}
+*{box-sizing:border-box}html{background:#eee9df;color:#49362e}body{margin:0;font-family:-apple-system,BlinkMacSystemFont,"PingFang TC","Noto Sans TC",sans-serif;line-height:1.85}main{max-width:760px;margin:28px auto;padding:0 16px}.letter{overflow:hidden;background:#fffdf7;border:1px solid #e1d9c9;border-radius:24px;box-shadow:0 14px 60px #8c4e2810}header{position:relative;background:#f8e8d3;color:#49362e;padding:38px 44px 42px}.brand{display:flex;align-items:center;gap:16px;font-size:19px;font-weight:650;letter-spacing:.06em}.brand img{width:76px;height:65px;object-fit:contain}.brand span{display:block;font-size:10px;font-weight:400;letter-spacing:.18em;color:#78675d}.kicker{font-size:12px;letter-spacing:.18em;color:#ab8c54;font-weight:700;margin:38px 0 12px}header .kicker{color:#9a472e}h1{font-family:"Songti TC","Noto Serif TC",serif;font-size:76px;font-weight:600;letter-spacing:.03em;line-height:1.26;margin:0}.intro{font-size:19px;color:#6b5140;margin:22px 0}.verse{font-size:15px;border-top:1px solid #ffffff36;padding-top:20px;line-height:1.85;color:#795336}.verse span{display:block;font-size:12px;letter-spacing:.08em;margin-top:6px}.hero{margin:0;height:310px;overflow:hidden}.hero img{display:block;width:100%;height:100%;object-fit:cover;object-position:center}.content{padding:26px 44px 24px;font-size:16px}h2{font-family:"Songti TC",serif;line-height:1.5;font-size:27px;margin:32px 0 14px}p{margin:16px 0}.numbers{display:grid;grid-template-columns:repeat(3,1fr);gap:10px;background:#f2eddf;border-radius:16px;padding:20px 10px;margin:26px 0;text-align:center}.numbers strong{display:block;font-size:23px;color:#87512e}.numbers span{display:block;font-size:11px}.photos{display:grid;grid-template-columns:1fr 1fr;gap:12px;margin:25px 0}.photos img{width:100%;height:195px;object-fit:cover;border-radius:14px}.prayer{border-block:1px solid #e8ddc8;padding-bottom:12px}.prayer .kicker{margin-top:24px}.prayer h2{margin-top:0}ol{padding-left:25px}li{padding-left:5px;margin:16px 0}li b,li span{display:block}li span{font-size:15px;color:#78675d}.bank{background:#f2eddf;padding:22px 26px;border-radius:16px}.bank>span{display:block;color:#786c57;font-size:12px}.bank b{display:block;font-size:17px}.bank strong{display:block;font-size:31px;letter-spacing:.045em;line-height:1.6;font-variant-numeric:tabular-nums}.bank p{font-size:13px;line-height:1.7;margin:8px 0 0;color:#78675d}.primary,.line-share,.download{display:block;text-align:center;text-decoration:none;border-radius:12px;padding:16px 12px;min-height:52px;font-weight:650}.primary{background:#ad4e2c;color:#fff;margin-top:18px}.future{border-left:3px solid #b48b4c;padding-left:20px;margin:35px 0 28px;font-size:23px;line-height:1.65}.signature{font-size:14px;color:#78675d}footer{padding:24px 44px 30px;border-top:1px solid #e8ddc8}.line-share{background:#a54c30;color:#fff}.download{color:#694b38;border:1px solid #d8bca2;margin-top:12px}footer p{color:#78675d;font-size:12px;text-align:center;margin-bottom:0}@media(max-width:540px){main{padding:0;margin:0}.letter{border-radius:0;border:0}header{padding:28px 26px 32px}h1{font-size:62px}.content{padding:22px 25px}.hero{height:230px}.photos img{height:150px}footer{padding:22px 25px}.numbers{padding:17px 6px;gap:5px}.numbers strong{font-size:21px}.numbers span{font-size:10px}.bank{padding:20px}.bank strong{font-size:27px}h2{font-size:25px}}@media print{main{max-width:760px;margin:0 auto;padding:0}.letter{box-shadow:none}footer{display:none}}
 .photos.with-court{grid-template-columns:1fr}.photos.with-court img{height:auto;object-fit:contain}.photos.with-court img.court{aspect-ratio:4/3}
 
 button.download{font:inherit;cursor:pointer;width:100%;min-height:44px}#shareStatus{overflow-wrap:anywhere}
+
+.brand img{background:#a54c30;padding:8px;border-radius:12px}.verse{border-color:#cfad88}.line-share{background:#a54c30}
